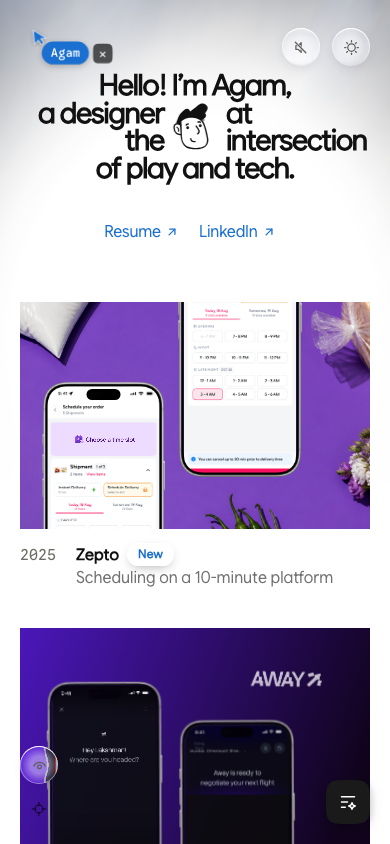
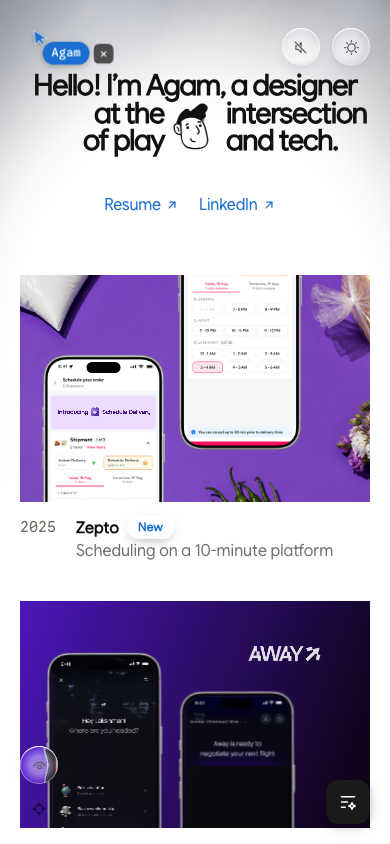
Hero v4: balance the two sides of the face (breaks by measured width), phones use the 3-row split; tablet sizes fit

diff --git a/src/hello3/HeroV4.jsx b/src/hello3/HeroV4.jsx
@@ -1,7 +1,7 @@
 // Hero v4: the headline set large and centred in the site's grotesk, tight leaded, with the live 3D face
 // inline in the middle of it, spanning two lines with the words flowing around it (the reference's shells).
 // The gap is a real grid track, not an overlay: a 3-column grid (words | face | words) where the face
-// takes the two middle rows. Wide screens break the line as 3 rows, phones as 4 (the same grid, other words
+// takes the two middle rows. Both break the line as 3 rows (the same grid, other words
 // per segment: both sets are in the DOM, CSS shows one, and both are aria-hidden next to the sr text).
 // The face is v1's stack verbatim (MorphFace + HeroMorph + the wave hand), so the morph, its clock and the
 // reveal sequence are unchanged; the segments join the sequence as .hv4__t.
@@ -11,9 +11,10 @@ import { Guard } from "../ui/Guard";
 import "./heroV4.css";
 
 export const HERO_V4_COPY = "Hello! I’m Agam, a designer at the intersection of play and tech.";
-// [row-1 line, row-2 left, row-2 right, row-3 left, row-3 right, row-4 line]
-const WIDE = ["Hello! I’m Agam, a designer", "at the", "intersection", "of play", "and tech.", ""];
-const PHONE = ["Hello! I’m Agam,", "a designer", "at", "the", "intersection", "of play and tech."];
+// [row-1 line, row-2 left, row-2 right, row-3 left, row-3 right, row-4 line (unused)]
+// breaks picked by measured width so the two sides of the face balance (B: 434|603, 261|361; A: 217|460, 261|361)
+const WIDE = ["Hello! I’m Agam, a", "designer at", "the intersection", "of play", "and tech.", ""];
+const PHONE = ["Hello! I’m Agam, a designer", "at the", "intersection", "of play", "and tech.", ""];
 const AREAS = ["a", "bl", "br", "cl", "cr", "d"];
 
 const Segs = ({ words, kind }) => words.map((w, i) => w && (

diff --git a/src/hello3/heroV4.css b/src/hello3/heroV4.css
@@ -30,8 +30,8 @@
 .hello[data-page="3"][data-seq][data-seq] .hv4__t[data-in] { opacity: 1; visibility: visible; transition: opacity 600ms cubic-bezier(0.22, 1, 0.36, 1); }
 .hello[data-page="3"]:not([data-seq]) .hv4__t { animation: hv4-in 600ms var(--m3-effects-default, ease) both; }
 @keyframes hv4-in { from { opacity: 0; } }
-@media (max-width: 1279px) { .hello[data-page="3"] .hv4 { --fs: 76; } }
-@media (max-width: 1023px) { .hello[data-page="3"] .hv4 { --fs: 60; } }
+@media (max-width: 1279px) { .hello[data-page="3"] .hv4 { --fs: 68; } }
+@media (max-width: 1023px) { .hello[data-page="3"] .hv4 { --fs: 50; } }
 @media (max-width: 720px) {
   .hello[data-page="3"] .hv4 { --fs: 29; }
   .hello[data-page="3"] .hv4__t--w { display: none; }
